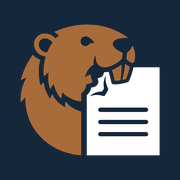
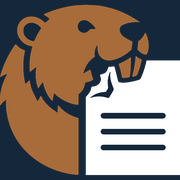
MIT licence, and a bigger beaver in the browser tab

diff --git a/README.md b/README.md
@@ -16,6 +16,7 @@ PDF, Word and PowerPoint in. AI-ready Markdown out, with fewer tokens.
 ![JavaScript](https://img.shields.io/badge/JavaScript-no%20framework-f7df1e?style=flat-square&logo=javascript&logoColor=black)
 ![GPU](https://img.shields.io/badge/GPU-MinerU%204-76b900?style=flat-square&logo=nvidia&logoColor=white)
 ![Price](https://img.shields.io/badge/price-free-8dd39a?style=flat-square)
+[![License: MIT](https://img.shields.io/badge/license-MIT-15273a?style=flat-square)](LICENSE)
 
 <img src="docs/screenshots/results.png" alt="mdbeaver: three files converted and merged into one Markdown file" width="900">
 
@@ -174,6 +175,10 @@ One use is one file sent to the GPU, given back if that job fails or is withdraw
 ## Credits
 
 GPU conversion by [**MinerU**](https://github.com/opendatalab/MinerU) (Apache 2.0, attribution shown on the site's About page). In-browser conversion with [pdf.js](https://mozilla.github.io/pdf.js/) (Apache 2.0) and [JSZip](https://stuk.github.io/jszip/) (MIT). Set in [Geist](https://vercel.com/font) (OFL 1.1).
+
+## License
+
+mdbeaver's own code is [MIT](LICENSE). The libraries and models it uses keep their own licences (see Credits); the beaver artwork is part of the site and not covered by the MIT grant.
 
 ## Support
 
